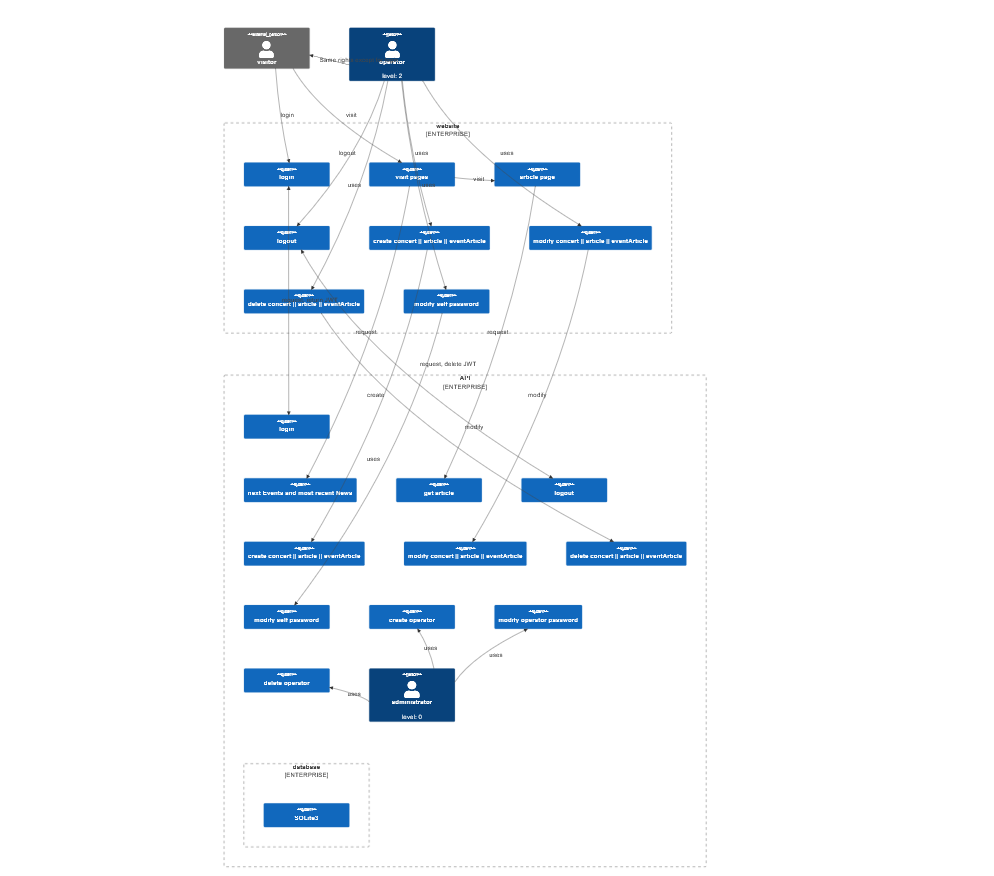
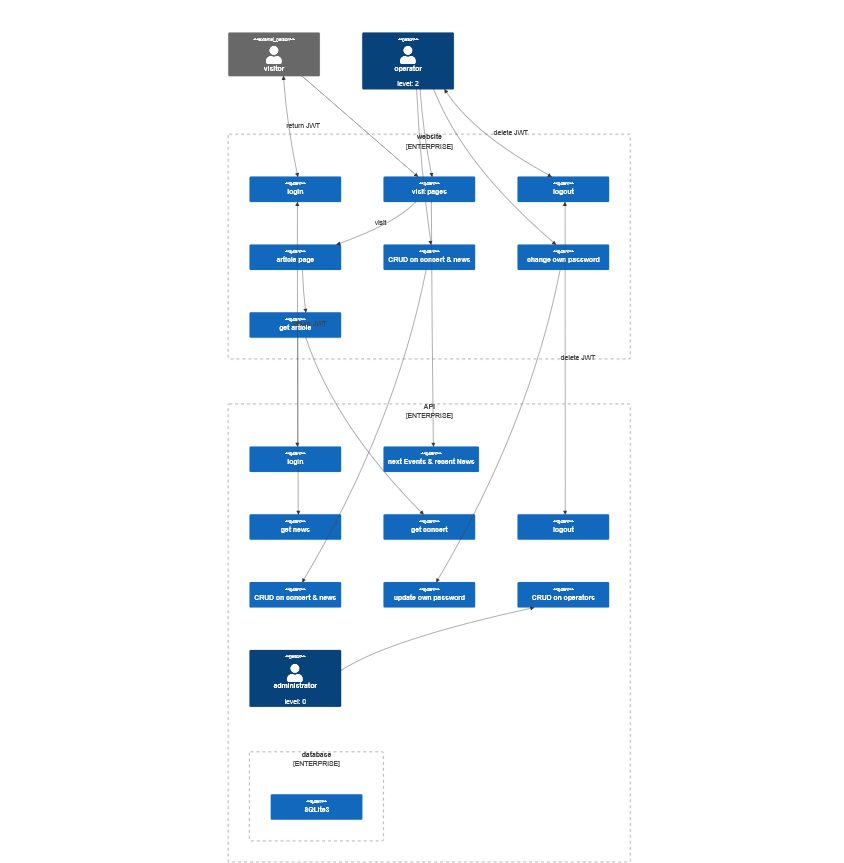
update use case

diff --git a/src/utils/diagsMermaid.js b/src/utils/diagsMermaid.js
@@ -8,27 +8,24 @@ export const stockemoiseUseCase = `C4Container
         Enterprise_Boundary(website, "website") {
             System(login, "login")
             System(pages, "visit pages")
-            System(article, "article page")
             System(logout, "logout")
-            System(createFE, "create concert || article || eventArticle")
-            System(modifyFE, "modify concert || article || eventArticle")
-            System(deleteFE, "delete concert || article || eventArticle")
-            System(changePasswordFE, "modify self password")
+            System(article, "article page")
+            System(crudFE, "CRUD on concert & news")
+            System(changePasswordFE, "change own password")
+            System(articleFE, "get article")
         }
 
         Enterprise_Boundary(api, "API") {
             System(loginAPI, "login")
-            System(nextEvents, "next Events and most recent News")
-            System(articleAPI, "get article")
+            System(nextEvents, "next Events & recent News")
+            System(newsAPI, "get news")
+            System(concertAPI, "get concert")
             System(logoutAPI, "logout")
-            System(createAPI, "create concert || article || eventArticle")
-            System(modifyAPI, "modify concert || article || eventArticle")
-            System(deleteAPI, "delete concert || article || eventArticle")
-            System(changePasswordAPI, "modify self password")
+            System(crudAPI, "CRUD on concert & news")
+            System(changePasswordAPI, "update own password")
 
-            System(createOP, "create operator")
-            System(modifyOP, "modify operator password")
-            System(deleteOP, "delete operator")
+
+            System(crudOP, "CRUD on operators")
 
             Person(admin, "administrator", "level: 0")
 
@@ -37,30 +34,24 @@ export const stockemoiseUseCase = `C4Container
             }
         }
 
-        Rel(op, vis, "Same rights except for login")
+        Rel(vis, pages, "")
+        Rel(op, pages, "")
+        BiRel(vis, login, "return JWT")
+        BiRel(op, logout, "delete JWT")
 
-        Rel(vis, pages, "visit")
-        Rel(vis, login, "login")
-        Rel(op, logout, "logout")
-
-        BiRel(login, loginAPI, "request, return JWT")
+        BiRel(login, loginAPI, "return JWT")
         Rel(pages, article, "visit")
-        BiRel(logout, logoutAPI, "request, delete JWT")
-        Rel(op, createFE, "uses")
-        Rel(op, modifyFE, "uses")
-        Rel(op, deleteFE, "uses")
-        Rel(op, changePasswordFE, "uses")
+        BiRel(logout, logoutAPI, "delete JWT")
+        Rel(op, changePasswordFE, "")
+        Rel(op, crudFE, "")
+        Rel(article, articleFE, "")
 
-        Rel(pages, nextEvents, "request")
-        Rel(article, articleAPI, "request")
-        Rel(createFE, createAPI, "create")
-        Rel(modifyFE, modifyAPI, "modify")
-        Rel(deleteFE, deleteAPI, "create")
-        Rel(deleteFE, deleteAPI, "modify")
-        Rel(changePasswordFE, changePasswordAPI, "uses")
-        Rel(admin, createOP, "uses")
-        Rel(admin, modifyOP, "uses")
-        Rel(admin, deleteOP, "uses")
+        Rel(pages, nextEvents, "")
+        Rel(articleFE, newsAPI, "")
+        Rel(articleFE, concertAPI, "")
+        Rel(crudFE, crudAPI, "")
+        Rel(changePasswordFE, changePasswordAPI, "")
+        Rel(admin, crudOP, "")
 
         UpdateLayoutConfig($c4ShapeInRow="3", $c4BoundaryInRow="1")`
 
